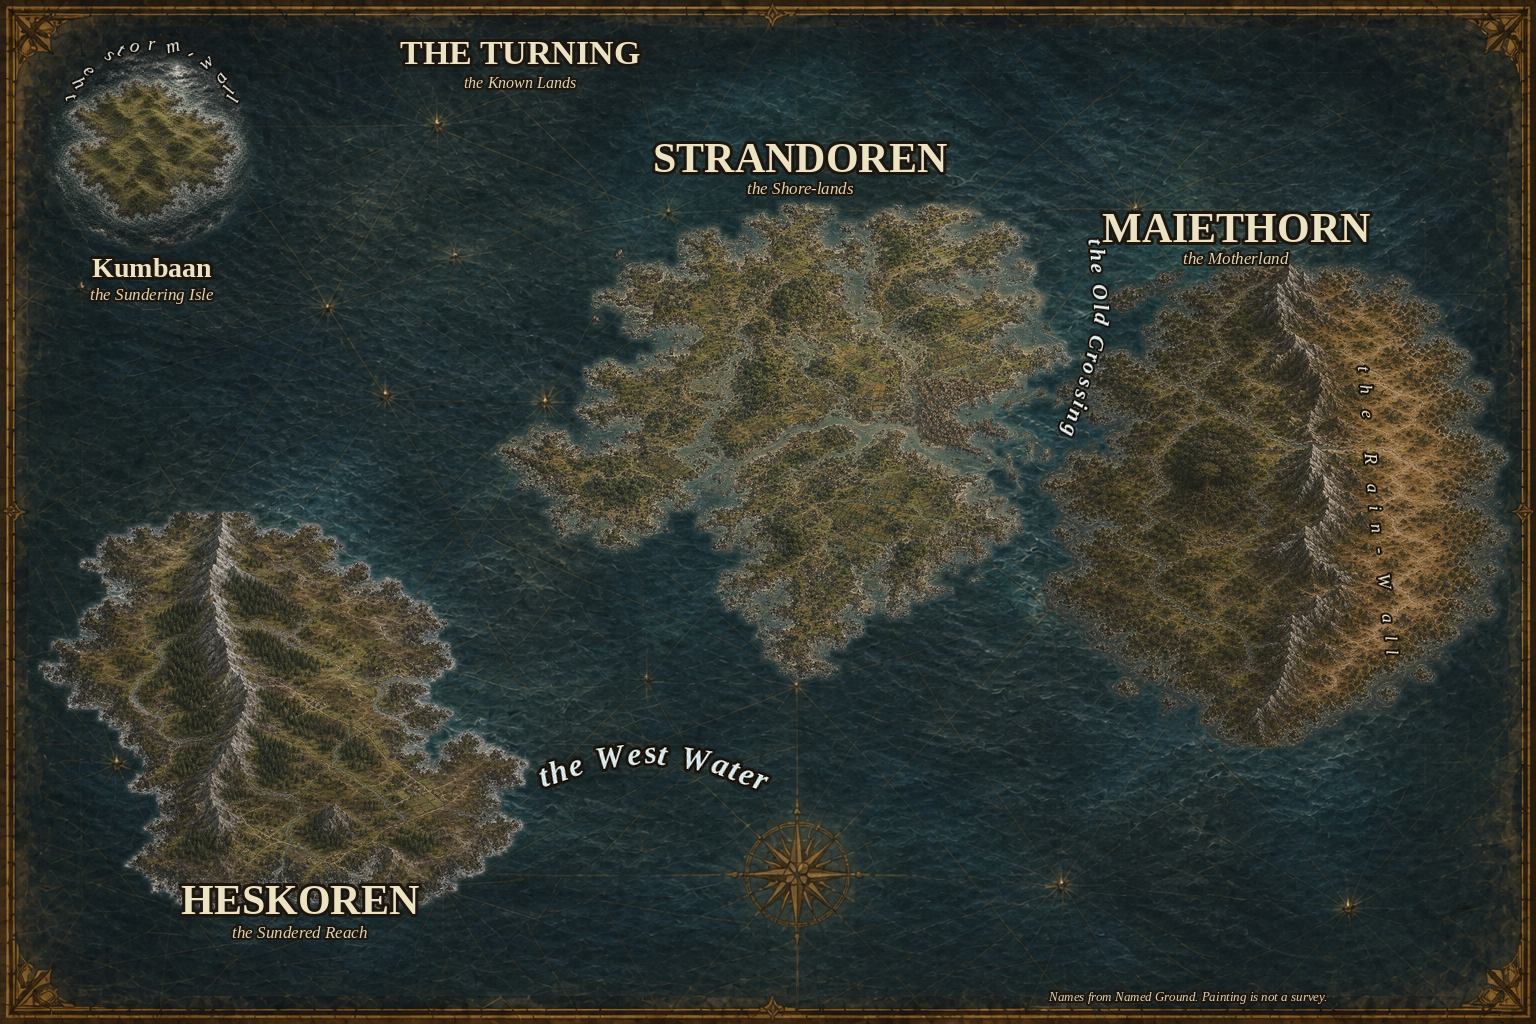
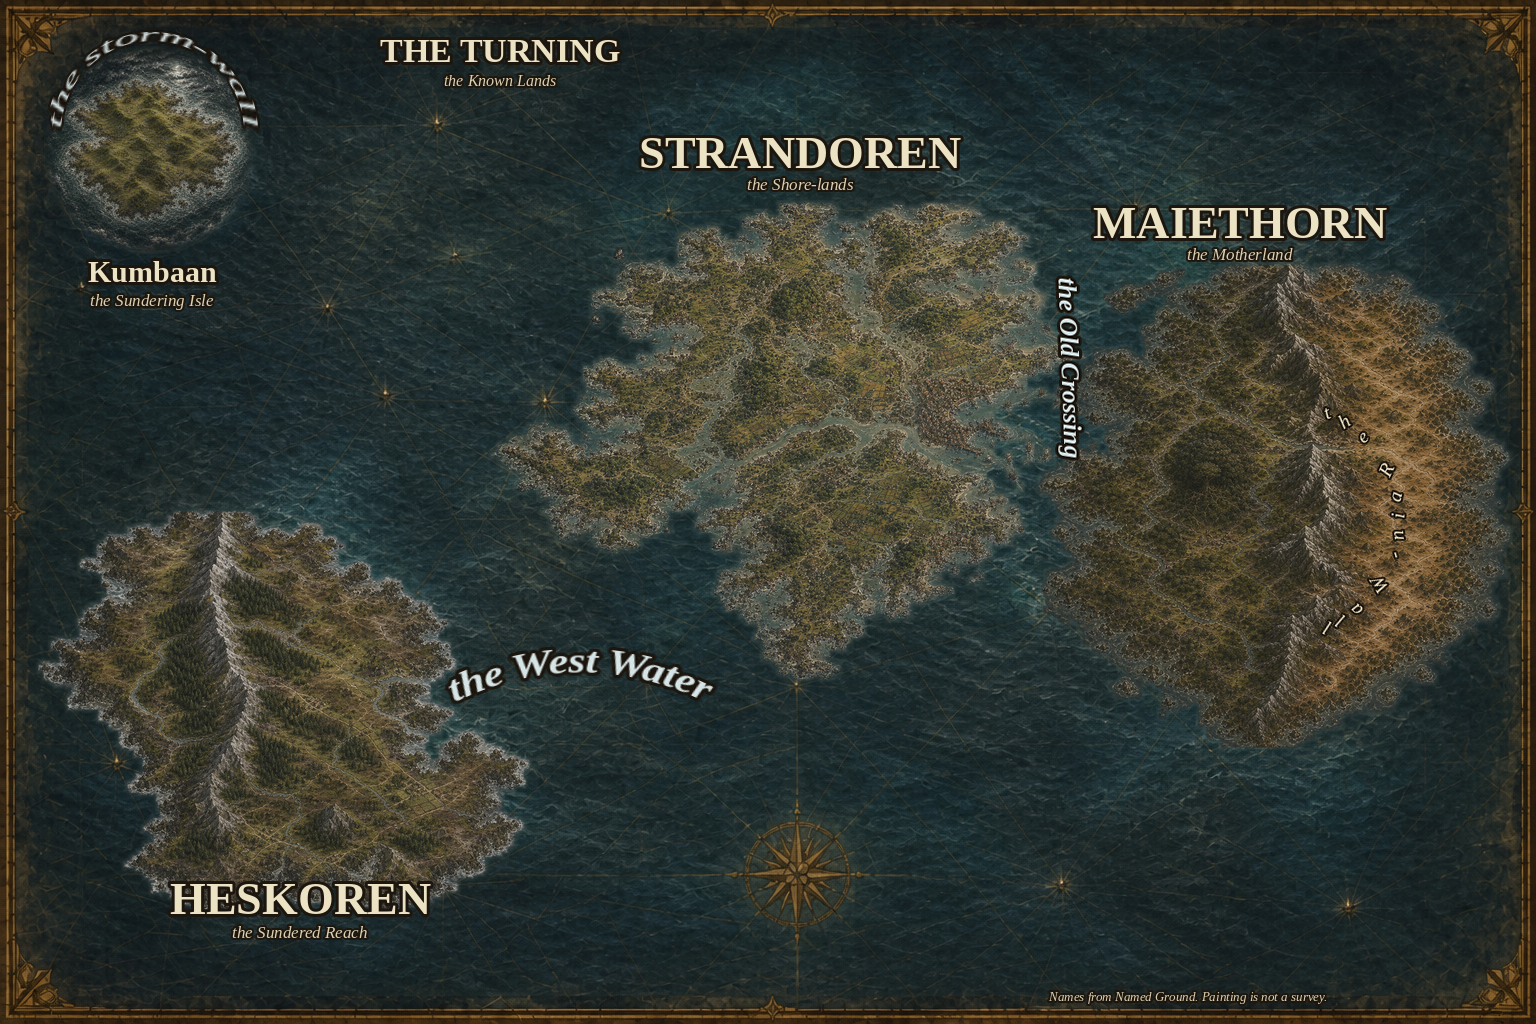
Bend world-sheet seas and wrap the storm-wall
Warp the West Water through the open basin between Heskoren and
Strandoren. Stand the Old Crossing almost vertical in the strait.
Bend the storm-wall around Kumbaan's foam as one curved strip.

diff --git a/14 - Assets/Maps/label_world_atlas.py b/14 - Assets/Maps/label_world_atlas.py
@@ -102,6 +102,111 @@ def paste_rotated(
     )
 
 
+def _blend(canvas: Image.Image, x: int, y: int, pix: tuple[int, int, int, int]) -> None:
+    if not (0 <= x < canvas.width and 0 <= y < canvas.height) or pix[3] == 0:
+        return
+    dst = canvas.getpixel((x, y))
+    a = pix[3] / 255.0
+    canvas.putpixel(
+        (x, y),
+        (
+            int(dst[0] * (1 - a) + pix[0] * a),
+            int(dst[1] * (1 - a) + pix[1] * a),
+            int(dst[2] * (1 - a) + pix[2] * a),
+            255,
+        ),
+    )
+
+
+def warp_along_arc(
+    canvas: Image.Image,
+    text: str,
+    typeface: ImageFont.FreeTypeFont,
+    fill: tuple[int, int, int],
+    cx: float,
+    cy: float,
+    radius: float,
+    start_deg: float,
+    end_deg: float,
+    stroke: int = 3,
+) -> None:
+    """Bend a whole word onto a circular arc so the type itself curves."""
+    width, height = measure(typeface, text)
+    pad_x, pad_y = stroke + 10, stroke + 12
+    strip = Image.new("RGBA", (width + pad_x * 2, height + pad_y * 2), (0, 0, 0, 0))
+    draw = ImageDraw.Draw(strip)
+    halo_text(
+        draw,
+        (strip.size[0] // 2, strip.size[1] // 2),
+        text,
+        typeface,
+        fill,
+        stroke=stroke,
+    )
+    # Slight horizontal stretch so the warp does not crush counters.
+    strip = strip.resize(
+        (int(strip.size[0] * 1.15), strip.size[1]),
+        Image.Resampling.BICUBIC,
+    )
+    sw, sh = strip.size
+    src = strip.load()
+    half = sh / 2
+    r_min = radius - half - 2
+    r_max = radius + half + 2
+    samples = [start_deg + (end_deg - start_deg) * i / 8 for i in range(9)]
+    xs: list[float] = []
+    ys: list[float] = []
+    for deg in samples:
+        th = math.radians(deg)
+        for r in (r_min, r_max):
+            xs.append(cx + r * math.cos(th))
+            ys.append(cy - r * math.sin(th))
+    x0, x1 = int(min(xs) - 2), int(max(xs) + 3)
+    y0, y1 = int(min(ys) - 2), int(max(ys) + 3)
+    span = end_deg - start_deg
+    if abs(span) < 1e-6:
+        return
+
+    def arc_t(theta_rad: float) -> float | None:
+        deg = math.degrees(theta_rad)
+        for lift in (0.0, 360.0, -360.0):
+            t = (deg + lift - start_deg) / span
+            if -0.03 <= t <= 1.03:
+                return t
+        return None
+
+    for py in range(y0, y1):
+        for px in range(x0, x1):
+            dx = px - cx
+            dy = cy - py
+            r = math.hypot(dx, dy)
+            if r < r_min or r > r_max:
+                continue
+            t = arc_t(math.atan2(dy, dx))
+            if t is None:
+                continue
+            sx = t * (sw - 1)
+            sy = half - (r - radius)
+            ix, iy = int(sx), int(sy)
+            if not (0 <= ix < sw - 1 and 0 <= iy < sh - 1):
+                continue
+            fx, fy = sx - ix, sy - iy
+            c00 = src[ix, iy]
+            c10 = src[ix + 1, iy]
+            c01 = src[ix, iy + 1]
+            c11 = src[ix + 1, iy + 1]
+            pix = tuple(
+                int(
+                    c00[c] * (1 - fx) * (1 - fy)
+                    + c10[c] * fx * (1 - fy)
+                    + c01[c] * (1 - fx) * fy
+                    + c11[c] * fx * fy
+                )
+                for c in range(4)
+            )
+            _blend(canvas, px, py, pix)
+
+
 def paste_along_arc(
     canvas: Image.Image,
     text: str,
@@ -205,105 +310,91 @@ def build() -> Image.Image:
 
     title = font(SERIF_BOLD, 34)
     subtitle = font(SERIF_ITALIC, 16)
-    land = font(SERIF_BOLD, 42)
-    land_small = font(SERIF_BOLD, 28)
+    land = font(SERIF_BOLD, 46)
+    land_small = font(SERIF_BOLD, 30)
     caption = font(SERIF_ITALIC, 17)
-    water = font(SERIF_BOLD_ITALIC, 32)
-    crossing = font(SERIF_BOLD_ITALIC, 22)
-    feature = font(SERIF_ITALIC, 19)
-    rain = font(SERIF_ITALIC, 18)
+    water = font(SERIF_BOLD_ITALIC, 36)
+    crossing = font(SERIF_BOLD_ITALIC, 26)
+    feature = font(SERIF_ITALIC, 20)
+    rain = font(SERIF_ITALIC, 20)
     note = font(SERIF_ITALIC, 13)
 
     ink = ImageDraw.Draw(canvas)
 
     # Quiet north water — sheet title, not a fifth land.
-    halo_text(ink, (520, 52), "THE TURNING", title, TYPE, stroke=3)
-    halo_text(ink, (520, 82), "the Known Lands", subtitle, TYPE_MUTED, stroke=2)
+    halo_text(ink, (500, 50), "THE TURNING", title, TYPE, stroke=3)
+    halo_text(ink, (500, 80), "the Known Lands", subtitle, TYPE_MUTED, stroke=2)
 
-    # Kumbaan — small storm-walled isle, upper left. Name sits below the
-    # ring. The storm-wall follows the circular foam, not a straight slug.
-    halo_text(ink, (152, 268), "Kumbaan", land_small, TYPE, stroke=3)
-    halo_text(ink, (152, 294), "the Sundering Isle", caption, TYPE_MUTED, stroke=2)
-    # Crown the foam ring. A short top arc keeps the letters leaning
-    # with the wall instead of stacking down the west coast.
-    paste_along_arc(
+    # Kumbaan — name below the ring. Storm-wall wraps the foam in a
+    # deep horseshoe so the curve is the first thing you read.
+    halo_text(ink, (152, 272), "Kumbaan", land_small, TYPE, stroke=3)
+    halo_text(ink, (152, 300), "the Sundering Isle", caption, TYPE_MUTED, stroke=2)
+    warp_along_arc(
         canvas,
         "the storm-wall",
         feature,
         TYPE_WATER,
         cx=152,
         cy=132,
-        radius=88,
-        start_deg=160,
-        end_deg=20,
+        radius=98,
+        start_deg=195,
+        end_deg=-15,
         stroke=2,
-        tracking=1.16,
     )
 
-    # Heskoren — south-west frontier, distinctly south of the Old World pair.
-    halo_text(ink, (300, 900), "HESKOREN", land, TYPE, stroke=3)
+    # Heskoren — south-west frontier, south of the Old World pair.
+    halo_text(ink, (300, 898), "HESKOREN", land, TYPE, stroke=3)
     halo_text(ink, (300, 932), "the Sundered Reach", caption, TYPE_MUTED, stroke=2)
 
-    # West Water — the wide emptiness between Heskoren and Strandoren.
-    # Stay in the open southern basin; do not start on Heskoren's land.
-    paste_along_path(
+    # West Water — the wide ocean west of Strandoren and north of
+    # Heskoren. Deep arc through the middle of that blue, not a
+    # straight slug and not the north pocket under Kumbaan.
+    warp_along_arc(
         canvas,
         "the West Water",
         water,
         TYPE_WATER,
-        [
-            (538, 778),
-            (590, 760),
-            (650, 752),
-            (715, 762),
-            (768, 782),
-        ],
+        cx=580,
+        cy=950,
+        radius=290,
+        start_deg=120,
+        end_deg=60,
         stroke=3,
-        tracking=1.03,
     )
 
-    # Strandoren — maritime Old-World neighbour, centre of the sheet.
-    halo_text(ink, (800, 158), "STRANDOREN", land, TYPE, stroke=3)
-    halo_text(ink, (800, 188), "the Shore-lands", caption, TYPE_MUTED, stroke=2)
+    # Strandoren — maritime Old-World neighbour.
+    halo_text(ink, (800, 152), "STRANDOREN", land, TYPE, stroke=3)
+    halo_text(ink, (800, 184), "the Shore-lands", caption, TYPE_MUTED, stroke=2)
 
-    # Old Crossing — the crowded strait between Strandoren and Maiethorn.
-    # Follow the water down the channel; do not float in the north ocean.
-    paste_along_path(
+    # Old Crossing — one nearly-vertical word in the actual strait
+    # between Strandoren and Maiethorn, not the north ocean above it.
+    paste_rotated(
         canvas,
         "the Old Crossing",
         crossing,
         TYPE_WATER,
-        [
-            (1096, 238),
-            (1100, 278),
-            (1102, 318),
-            (1094, 358),
-            (1082, 398),
-            (1068, 438),
-        ],
-        stroke=2,
-        tracking=1.02,
+        (1070, 368),
+        -88,
+        stroke=3,
     )
 
-    # Maiethorn — far east, largest old land. Name north of the wet west.
-    halo_text(ink, (1236, 228), "MAIETHORN", land, TYPE, stroke=3)
-    halo_text(ink, (1236, 258), "the Motherland", caption, TYPE_MUTED, stroke=2)
+    # Maiethorn — far east. Name north of the wet west.
+    halo_text(ink, (1240, 222), "MAIETHORN", land, TYPE, stroke=3)
+    halo_text(ink, (1240, 254), "the Motherland", caption, TYPE_MUTED, stroke=2)
 
-    # Rain-Wall — Maiethorn's north–south divide, on the ridge.
-    paste_along_path(
+    # Rain-Wall — bow with Maiethorn's crescent spine.
+    paste_along_arc(
         canvas,
         "the Rain-Wall",
         rain,
         TYPE,
-        [
-            (1364, 360),
-            (1370, 430),
-            (1376, 510),
-            (1386, 590),
-            (1394, 660),
-        ],
+        cx=1280,
+        cy=520,
+        radius=118,
+        start_deg=70,
+        end_deg=-70,
         stroke=2,
-        tracking=1.10,
+        tracking=1.12,
     )
 
     # Compass sits bottom-centre; keep the disclaimer off it and off Heskoren.
